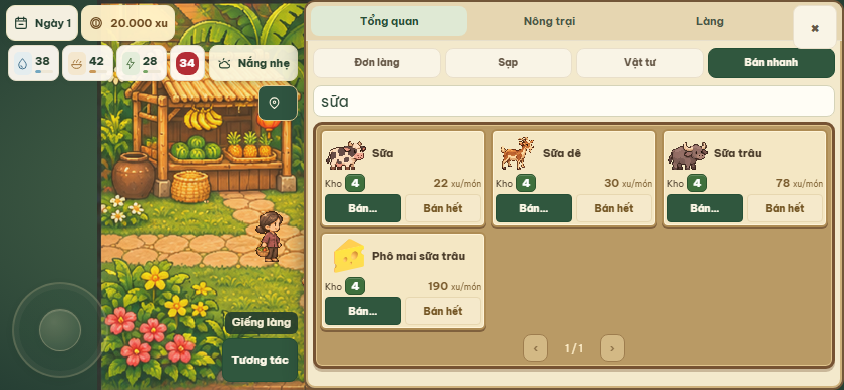
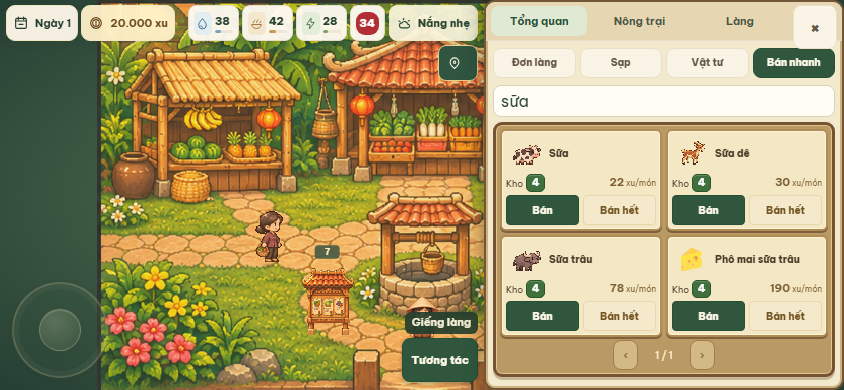
update list vật phẩm bán mobie

diff --git a/docs/assets/quick-sales-list-draft-v3.html b/docs/assets/quick-sales-list-draft-v3.html
@@ -1,0 +1,7 @@
+<!doctype html><html lang="vi"><meta charset="utf-8"><meta name="viewport" content="width=device-width,initial-scale=1"><title>Bán nhanh — danh sách phân trang</title><style>
+*{box-sizing:border-box}body{margin:0;background:#e9e4d4;color:#493e2a;font:13px system-ui,sans-serif}header{max-width:1000px;margin:24px auto 12px;padding:0 16px}h1{font-size:20px;margin:0 0 6px}header p{margin:0;line-height:1.6;color:#74664e}.stage{max-width:1000px;margin:auto;display:grid;grid-template-columns:1fr 304px;gap:14px;padding:16px}.scene{border:3px solid #665437;border-radius:10px;background:#486047 url('market-viewport-v1.png') center/cover;min-height:480px}.book{background:#e9ddba;border:2px solid #85704b;box-shadow:inset 0 0 0 2px #fff2cd,0 3px #695335;border-radius:9px;padding:9px;display:flex;flex-direction:column;gap:8px;min-width:0}button,input{font:inherit}button{color:inherit;cursor:pointer}button:focus-visible,input:focus-visible{outline:3px solid #3c7257;outline-offset:2px}.heading{display:flex;align-items:center;justify-content:space-between;min-height:28px}.heading strong{font-family:Georgia,serif;font-size:20px;color:#35543f}.heading button{border:0;background:none;font-size:12px}.tabs{display:flex;gap:4px;border-bottom:1px solid #baa578;padding-bottom:7px}.tabs span{flex:1;text-align:center;font-size:11px;padding:5px 0}.tabs .active{border-radius:4px;background:#365641;color:#fff5dc}.products{display:flex;flex-direction:column;background:#f8edcf;border:1px solid #b49d70;border-radius:6px;overflow:visible;min-width:0;padding:0 7px}.product{display:flex;align-items:center;gap:8px;padding:10px 0;min-width:0;min-height:78px;border-bottom:1px dashed #c9b58a}.product:last-child{border-bottom:0}.info{display:flex;flex:1;align-items:center;gap:8px;min-width:0;text-align:left;border:0;background:none;padding:0}.art{width:44px;height:48px;flex:none;display:grid;place-items:center}.sprite{width:24px;height:24px;image-rendering:pixelated;background-repeat:no-repeat;transform:scale(1.666667)}.description{flex:1;min-width:0;display:flex;flex-direction:column;gap:5px}.name{font-size:12px;line-height:16px;font-weight:700;white-space:normal;overflow-wrap:anywhere}.meta{display:flex;gap:6px;align-items:center;flex-wrap:wrap;font-size:10px;line-height:15px}.owned{display:flex;gap:3px;align-items:center;color:#756347}.badge{display:inline-block;border-radius:4px;background:#526d45;color:#fff8df;padding:0 5px;font-size:11px;min-width:20px;text-align:center;font-weight:700}.price{color:#846731;white-space:nowrap}.sell{flex:none;border:1px solid #2c4c35;background:#3e6348;color:#fff5d8;border-radius:5px;min-width:44px;min-height:34px;padding:5px;font-size:11px;font-weight:700;box-shadow:0 2px #29422f}.pager{display:flex;justify-content:center;align-items:center;gap:14px;font-size:11px;min-height:30px}.pager button{border:1px solid #b69b64;background:#f6e7c3;border-radius:5px;width:30px;height:30px}.pager button:disabled{opacity:.4}.hint{font-size:10px;line-height:15px;color:#796b50;text-align:center;margin:0}.search{display:none;width:100%;padding:6px;background:#fff5dc;border:1px solid #b7a275;border-radius:4px}.search.open{display:block}.empty{text-align:center;font-size:12px;padding:20px 0}dialog{width:min(320px,calc(100vw - 24px));border:2px solid #85704b;border-radius:9px;background:#f6eacb;color:#493e2a;padding:15px;max-height:calc(100dvh - 16px);overflow:auto}dialog::backdrop{background:#26372880}dialog h2{font-family:Georgia,serif;color:#35543f;font-size:20px;margin:0 0 9px}.dialog-head{display:flex;align-items:center;justify-content:space-between}.close{background:none;border:0;font-size:22px;min-width:32px;min-height:32px}.dialog-content{display:flex;align-items:center;gap:10px;margin:8px 0 15px}.dialog-content p{margin:3px 0;font-size:12px}label{display:block;font-size:12px}label input{width:100%;margin:5px 0 10px;padding:7px;border:1px solid #b29c6b;background:#fff7e1;border-radius:4px}.dialog-actions{display:flex;gap:8px;align-items:center}.dialog-actions .sell{flex:1}.all{background:#e8d29e;border:1px solid #b49a62;border-radius:5px;padding:7px;min-height:34px;font-size:11px}.notice{font-size:11px;color:#47643c;min-height:15px}
+@media(max-height:600px) and (orientation:landscape){header{display:none}.stage{padding:4px;gap:7px;height:100dvh;grid-template-columns:1fr 304px}.scene{min-height:0}.book{padding:6px;gap:6px}.heading{min-height:24px}.heading strong{font-size:18px}.tabs{padding-bottom:4px}.tabs span{padding:3px 0}.hint{display:none}.product{min-height:80px}.name{font-size:11px;line-height:15px}.products{padding:0 6px}}
+@media(max-height:340px) and (orientation:landscape){.book{gap:5px}.product{min-height:84px}.art{width:40px}.sprite{transform:scale(1.5)}}
+</style><header><h1>Bán nhanh — danh sách dọc có phân trang</h1><p>Ảnh trái, tên và thông tin ở giữa, một nút Bán bên phải. Khung 304px · dữ liệu mô phỏng, không giao dịch thật.</p></header><main class="stage"><div class="scene" aria-label="Bối cảnh chợ hiện có"></div><section class="book"><div class="heading"><strong>Bán nhanh</strong><button id="search-toggle" aria-expanded="false">Tìm món ⌕</button></div><nav class="tabs"><span>Đơn làng</span><span>Sạp</span><span>Vật tư</span><span class="active">Bán nhanh</span></nav><input class="search" placeholder="Tìm nông sản…" aria-label="Tìm nông sản"><div class="products"></div><div class="pager"><button id="prev" aria-label="Trang trước">‹</button><span id="page"></span><button id="next" aria-label="Trang sau">›</button></div><p class="hint">Chạm ảnh hoặc tên để xem thông tin món hàng.</p></section></main><dialog aria-labelledby="dialog-title"><div class="dialog-head"><h2 id="dialog-title"></h2><button class="close" aria-label="Đóng">×</button></div><div class="dialog-content"></div><div id="sale-controls"><label>Số lượng bán<input id="quantity" type="number" min="1" value="1"></label><div class="dialog-actions"><button class="all">Bán hết</button><button class="sell" id="confirm"></button></div></div><p class="notice" role="status"></p></dialog><script>
+const items=[{id:'wheat',name:'Lúa mì',count:24,price:6,y:0},{id:'carrot',name:'Cà rốt',count:12,price:10,y:24},{id:'corn',name:'Bắp',count:8,price:15,y:48},{id:'tomato',name:'Cà chua',count:16,price:18,extra:true,y:0},{id:'sunflower',name:'Hướng dương',count:1234,price:23,extra:true,y:24},{id:'strawberry',name:'Dâu chất lượng cao',count:9,price:34,extra:true,y:48},{id:'tea',name:'Trà',count:28,price:45,extra:true,y:96},{id:'pumpkin',name:'Bí đỏ',count:4,price:50,extra:true,y:168}];let page=0,size=4,selected=null;const $=s=>document.querySelector(s);const fmt=n=>n.toLocaleString('vi-VN');const art=i=>`<span class="art"><span class="sprite" style="background-image:url('../../public/pixel/${i.extra?'crop-stages-v2.png':'vertical-slice-v2-hd.png'}');background-size:${i.extra?'96px 216px':'384px 128px'};background-position:-${i.extra?72:168}px -${i.y}px"></span></span>`;function render(){const nextSize=innerHeight<=340?2:innerHeight<=600?3:4;if(size!==nextSize){page=Math.floor(page*size/nextSize);size=nextSize}const q=$('.search').value.toLocaleLowerCase('vi');const list=items.filter(i=>i.name.toLocaleLowerCase('vi').includes(q)),pages=Math.max(1,Math.ceil(list.length/size));page=Math.max(0,Math.min(page,pages-1));$('.products').innerHTML=list.slice(page*size,(page+1)*size).map(i=>`<article class="product"><button class="info" data-info="${i.id}" aria-label="Chi tiết ${i.name}">${art(i)}<span class="description"><strong class="name">${i.name}</strong><span class="meta"><span class="owned">Kho <b class="badge">${fmt(i.count)}</b></span><span class="price">${fmt(i.price)} xu/món</span></span></span></button><button class="sell" data-sell="${i.id}" aria-label="Bán ${i.name}">Bán</button></article>`).join('')||'<p class="empty">Không tìm thấy món hàng.</p>';$('#page').textContent=(page+1)+' / '+pages;$('#prev').disabled=page===0;$('#next').disabled=page===pages-1}function total(){const input=$('#quantity'),n=input.valueAsNumber;$('#confirm').textContent=input.validity.valid?'Bán · '+fmt(n*selected.price)+' xu':'Chọn số lượng';$('#confirm').disabled=!input.validity.valid}function open(id,sale){selected=items.find(i=>i.id===id);$('#dialog-title').textContent=(sale?'Bán ':'')+selected.name;$('.dialog-content').innerHTML=art(selected)+`<div><p>Trong kho: <b>${fmt(selected.count)}</b> món</p><p>Đơn giá: <b>${fmt(selected.price)}</b> xu/món</p></div>`;$('#sale-controls').hidden=!sale;$('#quantity').max=selected.count;$('#quantity').value=1;$('.notice').textContent='';total();$('dialog').showModal()}$('.products').onclick=e=>{const sale=e.target.closest('[data-sell]'),info=e.target.closest('[data-info]');if(sale)open(sale.dataset.sell,true);else if(info)open(info.dataset.info,false)};$('#prev').onclick=()=>{page--;render()};$('#next').onclick=()=>{page++;render()};$('#search-toggle').onclick=()=>{const on=$('.search').classList.toggle('open');$('#search-toggle').setAttribute('aria-expanded',on);if(on)$('.search').focus()};$('.search').oninput=()=>{page=0;render()};$('.close').onclick=()=>$('dialog').close();$('#quantity').oninput=total;$('.all').onclick=()=>{$('#quantity').value=selected.count;total();$('.notice').textContent='Mô phỏng: cần xác nhận trước khi bán hết.'};$('#confirm').onclick=()=>$('.notice').textContent='Mô phỏng, chưa thực hiện giao dịch.';addEventListener('resize',render);render();
+</script></html>

diff --git a/public/market-sales.css b/public/market-sales.css
@@ -1,41 +1,26 @@
-/* Six sale slots; widen this book rather than shrinking artwork and names. */
-.layout[data-quick-sales]{grid-template-columns:minmax(0,1fr) 480px}
-.market-sales-grid{display:grid;grid-template-columns:repeat(3,minmax(0,1fr));gap:7px}
-.market-sale-card{min-width:0;padding:6px;border:2px solid #ae8c54;border-radius:6px;background:#f4e7c4;box-shadow:inset 0 0 0 1px #fff4d8,0 2px #80613d;display:flex;flex-direction:column;gap:5px;color:#493b29}
-.panel-body .market-sale-info.btn{display:flex;flex-direction:column;align-items:center;gap:4px;width:100%;border:0;background:none;box-shadow:none;color:#493b29;padding:0;min-height:0}
-.market-sale-art{display:grid;place-items:center;width:100%;height:48px;flex:none}
-.market-sale-art .animal-icon{margin:0;flex:none}.market-sale-art .crop-item-icon{margin:0;transform:scale(2)}.market-sale-art .recipe-symbol{font-size:38px;line-height:1}
-.market-sale-info strong{font-size:12px;line-height:15px;min-height:30px;white-space:normal;overflow-wrap:anywhere;text-align:center;width:100%}
-.market-sale-meta{display:flex;flex-wrap:wrap;align-items:center;justify-content:space-between;gap:3px}
-.market-sale-owned{display:flex;align-items:center;gap:3px;font-size:10px;min-height:19px}.market-sale-owned .coop-count{margin:0;font-size:11px;min-width:20px;text-align:center}.market-sale-owned small{display:none}
-.market-sale-price{display:flex;align-items:baseline;gap:3px;color:#795b2d;font-size:10px}.market-sale-price b{font-size:12px}.market-sale-price span{font-size:9px}
-.market-sale-actions{display:grid;grid-template-columns:1fr 1fr;gap:4px;margin-top:auto}.panel-body .market-sale-actions .btn{min-height:32px;padding:4px 2px;font-size:10px;white-space:normal;border-radius:4px}
-.market-sales-book .task-book-pager{margin-top:7px;color:#fff0cd}.market-sales-grid>p{grid-column:1/-1}
-#market-sales h2{font-size:17px;line-height:1.2;margin:0}#market-sales>.row{margin-bottom:4px}#market-sales .market-search{margin:4px 0}#market-sales .market-search input{min-height:31px;padding:5px 7px}.panel-body:has(#market-sales) .market-tabs .btn{min-height:30px;padding-block:4px;font-size:10px;line-height:1.25}
-@media(max-width:760px) and (min-height:601px){.layout[data-quick-sales]{grid-template-columns:1fr}}
+/* Approved compact cards: art/name, stock/price, then two sale actions. */
+.market-sales-grid{display:grid;grid-template-columns:repeat(2,minmax(0,1fr));gap:6px}
+.market-sale-card{min-width:0;padding:4px;border:2px solid #ae8c54;border-radius:6px;background:#f4e7c4;box-shadow:inset 0 0 0 1px #fff4d8,0 2px #80613d;display:flex;flex-direction:column;gap:3px;color:#493b29}
+.panel-body .market-sale-info.btn{display:flex;align-items:center;gap:5px;width:100%;min-width:0;min-height:36px;border:0;background:none;box-shadow:none;color:inherit;padding:0}
+.market-sale-art{display:grid;place-items:center;width:34px;height:36px;flex:none}
+.market-sale-art .animal-icon{margin:0;flex:none;transform:scale(.7);transform-origin:center}.market-sale-art .crop-item-icon{margin:0;transform:scale(1.333333);transform-origin:center}.market-sale-art .recipe-symbol{font-size:24px;line-height:1}
+.market-sale-info strong{min-width:0;flex:1;margin:0;font-size:10px;line-height:13px;text-align:left;white-space:normal;overflow-wrap:anywhere}
+.market-sale-meta{display:flex;flex-wrap:wrap;align-items:center;justify-content:space-between;gap:2px;min-width:0}
+.market-sale-owned{display:flex;align-items:center;gap:3px;font-size:9px;min-height:18px}.market-sale-owned .coop-count{margin:0;font-size:10px;min-width:19px;text-align:center}.market-sale-owned small{display:none}
+.market-sale-price{display:flex;align-items:baseline;gap:2px;color:#795b2d;line-height:13px}.market-sale-price b{font-size:11px}.market-sale-price span{font-size:8px}
+.market-sale-actions{display:grid;grid-template-columns:1fr 1fr;gap:4px;margin-top:auto;min-width:0}.panel-body .market-sale-actions .btn{min-width:0;min-height:28px;padding:4px 1px;font-size:10px;line-height:13px;white-space:normal;border-radius:4px;overflow:visible;text-overflow:clip}
+.market-sales-book .task-book-pager{margin-top:6px;color:#fff0cd}.market-sales-grid>p{grid-column:1/-1}
+#market-sales>.row{display:none}#market-sales .market-search{margin:3px 0}#market-sales .market-search input{min-height:31px;padding:5px 7px}.panel-body:has(#market-sales) .market-tabs .btn{min-height:30px;padding-block:4px;font-size:10px;line-height:1.25}
 @media(orientation:landscape) and (min-width:500px) and (max-width:1100px) and (max-height:600px){
- .layout[data-quick-sales][data-panel-open] .control-panel{width:min(540px,82vw)}
- .layout[data-quick-sales][data-panel-open] .world-hud,.layout[data-quick-sales][data-panel-open] .world-footer{right:calc(min(540px,82vw) + env(safe-area-inset-right,0px) + 6px)}
- #market-sales>.row{display:none}.market-sales-book{padding:4px}.market-sale-card{padding:4px;gap:3px}.market-sales-grid{gap:5px}
- .panel-body .market-sale-info.btn{flex-direction:row;gap:5px;min-height:44px}.market-sale-info .market-sale-art{width:44px;height:44px}.market-sale-info strong{font-size:11px;line-height:14px;min-height:0;width:auto;flex:1;text-align:left}
- .market-sale-art .crop-item-icon{transform:scale(1.75)}.market-sale-art .recipe-symbol{font-size:34px}.market-sale-meta{gap:2px}.market-sale-owned{font-size:9px;min-height:17px}.market-sale-price b{font-size:11px}.market-sale-price span{font-size:8px}
- .panel-body .market-sale-actions .btn{min-height:28px;padding:3px 1px}.market-sales-book .task-book-pager{margin-top:4px}
+ .layout[data-quick-sales] .panel-subtabs{display:none}.market-sales-book{padding:4px;margin-bottom:0}.market-sales-grid{gap:5px}
+ .market-sale-art{width:38px;height:38px}.panel-body .market-sale-info.btn{min-height:38px}.market-sale-card{padding:4px;gap:3px}.panel-body .market-sale-actions .btn{min-height:30px}
+ .market-sales-book .task-book-pager .btn{min-height:30px}
 }
 @media(orientation:landscape) and (max-height:340px){
- .layout[data-quick-sales] .panel-body{padding:4px;padding-bottom:calc(4px + env(safe-area-inset-bottom,0px))}
- #market-sales .market-search{margin:2px 0}.market-sale-card{gap:2px;padding:3px}.market-sales-grid{gap:4px}
- .market-sale-info .market-sale-art{width:38px;height:38px}.panel-body .market-sale-info.btn{min-height:38px;gap:3px}.market-sale-art .crop-item-icon{transform:scale(1.5)}
- .market-sale-info strong{font-size:10px;line-height:12px}.market-sale-meta{gap:1px}.market-sale-owned{min-height:15px}.market-sale-owned .coop-count{font-size:10px}.market-sale-price b{font-size:10px}
- .panel-body .market-sale-actions .btn{min-height:26px;font-size:9px}.market-sales-book .task-book-pager .btn{min-height:25px}.market-sales-book .task-book-pager{margin-top:3px}
+ .market-sale-art{width:34px;height:36px}.panel-body .market-sale-info.btn{gap:4px}.market-sale-info strong{font-size:10px;line-height:13px}
+ .market-sale-actions{gap:3px}.panel-body .market-sale-actions .btn{font-size:9px;min-height:32px}.market-sales-book .task-book-pager .btn{min-height:30px}#market-sales .market-search{margin:2px 0}
 }
-@media(min-height:601px){.layout[data-quick-sales] .control-panel{max-height:calc(100dvh - 170px);min-height:min(590px,calc(100dvh - 170px))}}
-@media(orientation:landscape) and (min-width:500px) and (max-width:1100px) and (max-height:600px){
- .layout[data-quick-sales] .panel-subtabs{display:none}
- .market-sale-card{padding:3px;gap:2px}.panel-body .market-sale-info.btn{min-height:38px}.market-sale-info .market-sale-art{height:38px;width:42px}
+
+@media(orientation:landscape) and (min-width:500px) and (max-width:1100px) and (min-height:341px) and (max-height:600px){
+ .market-sale-art{height:36px}.panel-body .market-sale-info.btn{min-height:36px}.market-sales-book .task-book-pager{margin-top:3px}.market-sales-grid{gap:4px}
 }
-@media(orientation:landscape) and (min-width:500px) and (max-height:340px){
- .layout[data-quick-sales] #panel-nav{display:none}.layout[data-quick-sales] .panel-navigation{height:0;min-height:0;border:0;overflow:visible}
- .layout[data-quick-sales] .market-tabs{padding-right:44px}.layout[data-quick-sales] .panel-close{top:2px;z-index:2}
- .layout[data-quick-sales][data-panel-open] .control-panel{width:calc(100% - 24px - env(safe-area-inset-left,0px) - env(safe-area-inset-right,0px))}
-}
-@media(orientation:landscape) and (min-width:500px) and (max-height:340px){.market-sales-book{margin-bottom:0}.layout[data-quick-sales] #market-results{margin-top:3px}}

diff --git a/docs/assets/quick-sales-draft-v2.html b/docs/assets/quick-sales-draft-v2.html
@@ -1,0 +1,6 @@
+<!doctype html><html lang="vi"><meta charset="utf-8"><meta name="viewport" content="width=device-width,initial-scale=1"><title>Phác thảo Bán nhanh · Khay nông sản</title><style>
+*{box-sizing:border-box}body{margin:0;background:#e9e4d4;color:#493e2a;font:13px system-ui,sans-serif}header{max-width:1000px;margin:24px auto 12px;padding:0 16px}header h1{font-size:20px;margin:0 0 6px}header p{line-height:1.6;margin:0;color:#74664e}.stage{max-width:1000px;margin:auto;display:grid;grid-template-columns:1fr 304px;gap:14px;padding:16px}.scene{border:3px solid #665437;border-radius:10px;background:#486047 url('market-viewport-v1.png') center/cover;min-height:460px}.book{background:#e9ddba;border:2px solid #85704b;box-shadow:inset 0 0 0 2px #fff2cd,0 3px 0 #695335;border-radius:9px;padding:9px;display:flex;flex-direction:column;gap:8px;min-width:0}button{font:inherit;color:inherit;cursor:pointer}button:focus-visible{outline:3px solid #3c7257;outline-offset:2px}.heading{display:flex;align-items:center;justify-content:space-between;height:28px}.heading strong{font-family:Georgia,serif;font-size:20px;color:#35543f}.heading button{border:0;background:none;font-size:12px}.tabs{display:flex;gap:4px;border-bottom:1px solid #baa578;padding-bottom:7px}.tabs span{flex:1;text-align:center;font-size:11px;padding:5px 0}.tabs .active{border-radius:4px;background:#365641;color:#fff5dc}.slots{display:grid;grid-template-columns:repeat(3,minmax(0,1fr));gap:6px}.slot{position:relative;min-width:0;display:flex;flex-direction:column;align-items:center;gap:4px;padding:7px 3px 5px;border:1px solid #baa476;border-radius:5px;background:#f6edcf;box-shadow:inset 0 1px #fff9e9}.slot[aria-pressed=true]{border:2px solid #54744c;padding:6px 2px 4px;background:#e4e7bc;box-shadow:inset 0 0 0 1px #fff5cc}.slot[aria-pressed=true]:after{content:'✓';position:absolute;left:3px;top:2px;color:#426342;font-size:11px;font-weight:bold}.art{width:40px;height:40px;display:grid;place-items:center}.sprite{width:24px;height:24px;image-rendering:pixelated;background-repeat:no-repeat;transform:scale(1.666667)}.name{font-size:11px;line-height:14px;min-height:28px;font-weight:650;overflow-wrap:anywhere;width:100%;text-align:center}.qty{position:absolute;top:3px;right:3px;background:#526d45;color:#fff9df;font-size:10px;font-weight:700;border-radius:4px;padding:1px 4px;box-shadow:0 1px #fff7d2}.pager{display:flex;justify-content:center;align-items:center;gap:14px;font-size:11px;height:28px}.pager button{border:1px solid #b69b64;background:#f6e7c3;border-radius:5px;width:28px;height:28px}.pager button:disabled{opacity:.4}.trade{border-top:1px solid #baa578;padding-top:9px;display:grid;gap:7px}.selected{display:flex;align-items:center;justify-content:space-between;gap:5px}.selected strong{font-size:12px}.price{font-size:11px;color:#796039;white-space:nowrap}.sell-row{display:flex;gap:6px;align-items:center}.stepper{display:flex;align-items:center;gap:0;background:#fff4d7;border:1px solid #ad9663;border-radius:5px;height:34px}.stepper button{width:29px;height:32px;border:0;background:none;font-size:18px}.stepper output{min-width:23px;text-align:center;font-weight:bold}.sell{flex:1;border:1px solid #2c4c35;background:#3e6348;color:#fff5d8;border-radius:5px;height:34px;font-size:12px;font-weight:700;box-shadow:0 2px #29422f}.subrow{display:flex;justify-content:space-between;align-items:center;font-size:10px;color:#746247}.all{border:0;background:none;color:#6d522b;text-decoration:underline;font-size:11px;padding:2px 0}.notice{font-size:11px;color:#435f3c;min-height:15px}.search{display:none;width:100%;padding:6px;background:#fff5dc;border:1px solid #b7a275;border-radius:4px;font:inherit}.search.open{display:block}
+@media(max-height:600px) and (orientation:landscape){header{display:none}.stage{padding:4px;gap:7px;height:100dvh;grid-template-columns:1fr 304px}.scene{min-height:0}.book{padding:6px;gap:4px}.heading{height:24px}.heading strong{font-size:17px}.tabs{padding-bottom:4px}.tabs span{padding:3px 0}.slot{padding:4px 2px 3px;gap:1px}.slot[aria-pressed=true]{padding:3px 1px 2px}.art{height:34px;width:36px}.sprite{transform:scale(1.333333)}.name{font-size:10px;line-height:12px;min-height:24px}.qty{font-size:9px;padding:1px 3px}.pager{height:24px}.pager button{height:24px}.trade{padding-top:5px;gap:4px}.notice{display:none}.stepper,.sell{height:30px}.stepper button{height:28px}.subrow{line-height:13px}.selected strong{font-size:11px}.price{font-size:10px}}
+@media(orientation:landscape) and (max-height:340px){.book{gap:2px}.trade{gap:3px}.tabs{padding-bottom:2px}}</style><header><h1>Bán nhanh — phác thảo khay nông sản</h1><p>6 món trong khung 304px. Chọn một món rồi dùng thanh bán chung bên dưới. Dữ liệu mô phỏng, không tác động game.</p></header><main class="stage"><div class="scene" aria-label="Bối cảnh chợ hiện có"></div><section class="book" aria-label="Phác thảo Bán nhanh"><div class="heading"><strong>Bán nhanh</strong><button id="search-toggle">Tìm món ⌕</button></div><nav class="tabs"><span>Đơn làng</span><span>Sạp</span><span>Vật tư</span><span class="active">Bán nhanh</span></nav><input class="search" placeholder="Tìm nông sản…" aria-label="Tìm nông sản"><div class="slots"></div><div class="pager"><button disabled aria-label="Trang trước">‹</button><span>1 / 1</span><button disabled aria-label="Trang sau">›</button></div><div class="trade"><div class="selected"><strong id="selected"></strong><span class="price"></span></div><div class="sell-row"><div class="stepper"><button id="minus" aria-label="Giảm số lượng">−</button><output>1</output><button id="plus" aria-label="Tăng số lượng">+</button></div><button class="sell"></button></div><div class="subrow"><span id="owned"></span><button class="all">Bán hết món này</button></div></div><div class="notice" role="status"></div></section></main><script>
+const items=[['Lúa mì',24,6,0,0],['Cà rốt',12,10,0,24],['Bắp',8,15,0,48],['Cà chua',16,18,1,0],['Hướng dương',6,23,1,24],['Dâu chất lượng cao',9,34,1,48]];let selected=3,qty=1;const $=s=>document.querySelector(s);function render(){const search=$('.search').value?.toLocaleLowerCase('vi')||'';$('.slots').innerHTML=items.map((i,n)=>i[0].toLocaleLowerCase('vi').includes(search)?`<button class="slot" data-index="${n}" aria-pressed="${selected===n}" aria-label="${i[0]}, trong kho ${i[1]}"><span class="qty">${i[1]}</span><span class="art"><span class="sprite" style="background-image:url('../../public/pixel/${i[3]?'crop-stages-v2.png':'vertical-slice-v2-hd.png'}');background-size:${i[3]?'96px 216px':'384px 128px'};background-position:-${i[3]?72:168}px -${i[4]}px"></span></span><span class="name">${i[0]}</span></button>`:'').join('');const i=items[selected];$('#selected').textContent=i[0];$('.price').textContent=i[2]+' xu/món';$('#owned').textContent='Trong kho: '+i[1]+' món';$('output').textContent=qty;$('.sell').textContent='Bán · '+qty*i[2]+' xu';$('#minus').disabled=qty<=1;$('#plus').disabled=qty>=i[1];}$('.slots').onclick=e=>{const b=e.target.closest('[data-index]');if(b){selected=+b.dataset.index;qty=1;render()}};$('#minus').onclick=()=>{qty=Math.max(1,qty-1);render()};$('#plus').onclick=()=>{qty=Math.min(items[selected][1],qty+1);render()};$('.sell').onclick=()=>$('.notice').textContent='Mô phỏng: bán '+qty+' '+items[selected][0].toLowerCase()+'.';$('.all').onclick=()=>{qty=items[selected][1];render();$('.notice').textContent='Mô phỏng: bước tiếp theo là xác nhận bán hết.'};$('#search-toggle').onclick=()=>{$('.search').classList.toggle('open');if($('.search').classList.contains('open'))$('.search').focus()};$('.search').oninput=render;render();
+</script></html>

diff --git a/docs/QUICK_SALES_UI_V1.md b/docs/QUICK_SALES_UI_V1.md
@@ -10,8 +10,8 @@ Bản cũ có lưới/phân trang nhưng vẫn dùng `itemLink()` trong thẻ da
 
 - Khung sách giấy/gỗ theo các bảng đã duyệt. Mỗi ô tách hình, tên tự xuống dòng và không cắt chữ, lượng Kho có badge xanh và đơn giá xu/món. Nút Bán mở chọn số lượng; Bán hết giữ bước xác nhận hiện có.
 - Cây trồng dùng frame trưởng thành từ `itemIllustration()`; thủy sản dùng atlas có sẵn; sản phẩm vật nuôi dùng `animalProductIllustration()`/sprite cùng loài như các bảng liên quan. Không vẽ lại hoặc sửa atlas.
-- Cập nhật theo yêu cầu: **6 món/trang, lưới 3×2** ở desktop và mobile ngang. Bảng Bán nhanh rộng 480px trên desktop, tối đa 540px trên mobile ngang; ảnh cây 48px trên desktop, 42px ở 844 ngang và 36px ở 568 ngang. Chỉ mở rộng bảng khi đang ở Bán nhanh, không thay kích thước bảng khác.
-- Mobile đặt hình và tên cạnh nhau. 844 ngang thu gọn hàng điều hướng phụ; màn hình thấp 568 ngang mở bảng gần hết chiều rộng và ẩn điều hướng Công cụ trong lúc mở bảng, giữ các thẻ chợ và nút đóng. Đóng bảng để trở lại map/điều hướng chung. Không bỏ ô tìm kiếm, đơn giá hay nút xác nhận.
+- Điều chỉnh sau phản hồi bảng quá to: bỏ toàn bộ chiều rộng/chiều cao riêng, dùng đúng khung Công cụ chung. Lưới hai cột; desktop và mobile ngang 844 hiển thị 4 món/trang, mobile ngang thấp đến 340px hiển thị 2. Ưu tiên tên đầy đủ và nút vừa khung thay vì phóng to cửa sổ để cố giữ 6 món.
+- Lựa chọn cuối của người dùng: dùng lại bố cục ô trong ảnh `quick-sales-live-1440.png`, không tích hợp prototype danh sách V3 hoặc khay V2. Ảnh bên trái và tên bên phải; hàng Kho/đơn giá tách riêng; hàng cuối có hai nút **Bán** / Bán hết. Bỏ ký tự ba chấm ở nhãn Bán. Tên dài xuống dòng đầy đủ, không line-clamp. Mobile ngang thu gọn hàng điều hướng phụ, giữ hàng điều hướng chính và nút đóng. Không bỏ ô tìm kiếm, đơn giá hay bước xác nhận.
 - Phân trang ở dưới; polling giữ trang, lọc tìm kiếm về đầu, item hết thì trang được kẹp hợp lệ. Không dùng chiều cao cố định hay line-clamp cho tên; ảnh và tên có vùng riêng.
 
 ## Mỹ thuật chưa hoàn tất
@@ -26,4 +26,4 @@ Không lấy hình nguyên liệu để giả làm hình món chế biến, khô
 
 Ảnh runtime: [desktop](assets/quick-sales-live-1100.png), [844 ngang](assets/quick-sales-live-844.png), [568 ngang](assets/quick-sales-live-568.png), [sản phẩm vật nuôi](assets/quick-sales-animal-live-844.png).
 
-Kiểm chứng bản 6 món: production build đạt; kiểm tra Edge tại cả ba kích thước trên, duyệt toàn bộ trang sản phẩm và xác nhận tên không bị cắt, danh sách/phân trang không cần cuộn. Kiểm tra lại tìm kiếm, giữ trang qua polling, bán đúng số lượng/giá và xác nhận bán hết đều đạt. Đây là kiểm tra Chromium mô phỏng kích thước, chưa phải Safari/Android thật.
+Kiểm chứng bản ô đã chọn: đo cả kích thước sprite sau transform, không chỉ khung chứa ảnh; thu icon tạm của món chế biến về 24px để không tràn sang tên. Kiểm tra nhãn Bán không có ba chấm, nút trong thẻ, tên không bị cắt, các trang và giao dịch demo. Ảnh runtime phía trên cập nhật theo lần lựa chọn này. Đây là Chromium mô phỏng kích thước, chưa phải Safari/Android thật.

diff --git a/docs/QUICK_SALES_LIST_DRAFT_V3.md b/docs/QUICK_SALES_LIST_DRAFT_V3.md
@@ -1,0 +1,25 @@
+# Bán nhanh V3 — danh sách dọc có phân trang
+
+Trạng thái: phác thảo chưa duyệt, chưa thay runtime. Thay hướng khay lưới V2 theo yêu cầu trực tiếp của người dùng; không còn coi lưới là bắt buộc cho Bán nhanh.
+
+## Thiết kế
+
+- Một khung giấy chung, các hàng phân cách nhẹ; không lồng nhiều thẻ hoặc nút bán lặp.
+- Mỗi hàng: ảnh có vùng riêng bên trái, tên đầy đủ và lượng Kho/đơn giá ở giữa, một nút Bán bên phải.
+- Lượng tồn có badge xanh, không ghép vào tên. Tên dài xuống dòng tự nhiên. Không cắt chữ để ép chiều cao.
+- Nút Bán mở chọn số lượng, tổng xu và Bán hết. Prototype chỉ mô phỏng; khi tích hợp phải giữ xác nhận bán hết và giao dịch server hiện có.
+- Chạm ảnh/tên mở thông tin món. Không biến việc xem thông tin thành thao tác bán.
+- Phân trang thật ở dưới danh sách: 4 món trên desktop, 3 ở mobile ngang 390px cao, 2 ở 320px cao. Tám món mẫu cho phép thử trang cuối, tên dài, lượng 1.234 và tìm kiếm rỗng.
+- Khung prototype rộng 304px; chưa tích hợp chiều rộng 276/304px và toàn bộ điều hướng Công cụ của runtime. Khi triển khai phải kiểm tra lại chính bảng thật, không dùng kết quả prototype để thay nghiệm thu tích hợp.
+
+## Xem mẫu
+
+- [Prototype tương tác](assets/quick-sales-list-draft-v3.html)
+- [Desktop](assets/quick-sales-list-v3-1100.png)
+- [844 ngang](assets/quick-sales-list-v3-844.png)
+- [568 ngang](assets/quick-sales-list-v3-568.png)
+- [Tên dài, số lượng lớn](assets/quick-sales-list-v3-long-844.png)
+
+Edge: duyệt hết trang tại 1100×850, 844×390, 568×320; đo cả sprite sau transform, chữ và nút không đè nhau, trang không tràn viewport. Chuyển trang, kẹp trang khi lọc, tìm kiếm rỗng, mở chi tiết/bán và chọn số lượng/Bán hết mô phỏng đạt. Chưa thử Safari/Android thật. Không đổi engine hoặc giao dịch production.
+
+GAME_UI_STANDARD.md đã ghi nhận ngoại lệ danh sách dọc do người dùng yêu cầu. Theo mục 6, chờ duyệt bản nhìn được trước khi tích hợp bố cục mới.

diff --git a/docs/QUICK_SALES_DRAFT_V2.md b/docs/QUICK_SALES_DRAFT_V2.md
@@ -1,0 +1,27 @@
+# Bán nhanh V2 — phác thảo để duyệt
+
+Trạng thái: CHƯA DUYỆT, chỉ là prototype độc lập. Không thay runtime, không kết nối database, không bán vật phẩm thật.
+
+## Vì sao bỏ bản vừa sửa
+
+Bản trước tiếp tục thu nhỏ ảnh/chữ và nhồi hai nút vào mỗi thẻ. Đo không tràn chỉ chứng minh bố cục vừa khung, không chứng minh thiết kế đẹp hoặc dễ dùng. Không dùng kết quả kiểm thử kỹ thuật để tuyên bố mỹ thuật đã đạt.
+
+## Bố cục đề xuất
+
+- Giữ khung rộng 304px, không mở rộng bản đồ hoặc cửa sổ.
+- Sáu ô, 3 cột × 2 hàng; ảnh từ atlas hiện có, tên riêng dưới ảnh, badge lượng tồn ở góc. Chỉ một món được chọn.
+- Bỏ 12 nút bán lặp lại. Một thanh thao tác chung hiển thị tên món chọn, đơn giá, bộ tăng/giảm lượng và nút Bán kèm tổng xu.
+- Bán hết nằm trong thanh chung; runtime sau này phải giữ bước xác nhận. Prototype chỉ thay số lượng để minh họa, không giao dịch.
+- Phân trang dưới khay. Prototype có đúng sáu món mô phỏng nên hai mũi tên vô hiệu; chưa phải triển khai phân trang thật.
+- Tìm món mở khi cần. Prototype chưa phải bản tích hợp với điều hướng/safe area của Công cụ; không được tuyên bố đã kiểm iOS thật.
+
+## Xem
+
+- [Prototype tương tác](assets/quick-sales-draft-v2.html)
+- [Desktop](assets/quick-sales-draft-v2-1100.png)
+- [Mobile ngang 844](assets/quick-sales-draft-v2-844.png)
+- [Mobile ngang 568](assets/quick-sales-draft-v2-568.png)
+
+Kiểm chứng prototype: sáu ô, ảnh không chồng tên, chọn món cập nhật thanh chung, tăng lượng cập nhật tổng xu; trang vừa viewport 1100×850, 844×390, 568×320 trong Edge. Không có code production thay đổi ở bước dựng mẫu này.
+
+Theo GAME_UI_STANDARD.md mục 6: “Thiết kế lại bố cục đáng kể phải dựng bản nhìn được và duyệt trước khi tích hợp”. Chờ người dùng đánh giá hướng này trước khi thay runtime, tránh thêm một vòng tự sửa và tự tuyên bố hoàn thiện.

diff --git a/docs/GAME_UI_STANDARD.md b/docs/GAME_UI_STANDARD.md
@@ -6,6 +6,8 @@ Ngày chốt: 27/11/2026. Áp dụng cho tính năng mới và các lần sửa 
 
 Các bảng chọn giống, vật nuôi, chăm sóc, kho/túi, cửa hàng, đơn hàng, vật phẩm và công thức ưu tiên **lưới item có phân trang**. Không nối danh sách dài xuống dưới hoặc dùng cuộn vô hạn làm cách duyệt chính.
 
+Theo phản hồi tiếp theo của người dùng, **Bán nhanh được phép dùng danh sách dọc có phân trang** để dành đủ chiều ngang cho ảnh, tên và thao tác bán. Lưới là ưu tiên, không phải ràng buộc bắt buộc khi làm giảm tính dễ dùng. Danh sách vẫn giữ phân trang ở dưới, tách tên/số lượng/giá, mật độ vừa khung và không cuộn dài làm cách duyệt chính.
+
 - Mỗi item ưu tiên hình minh họa, tên, một trạng thái/số lượng chính và hành động cần dùng. Chạm/click hình hoặc nút thông tin để mở chi tiết; không nhét toàn bộ mô tả, công thức và điều kiện vào từng ô.
 - Hiện trang hiện tại/tổng trang, nút trước/sau rõ và vô hiệu đúng ở hai đầu. Lọc hoặc đổi nhóm thì về trang đầu; dữ liệu cập nhật không tự đưa người chơi về trang đầu.
 - Đặt phân trang **dưới lưới**, dùng mẫu mũi tên trước/sau và số trang như Sổ chuồng. Giữ đồng nhất trong Kho, bộ chọn và các sổ chăm sóc; không đặt phân trang xen giữa bộ lọc và item.
